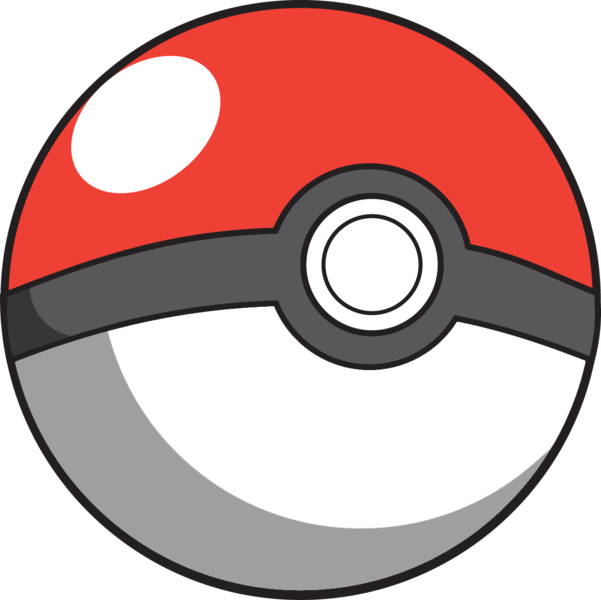
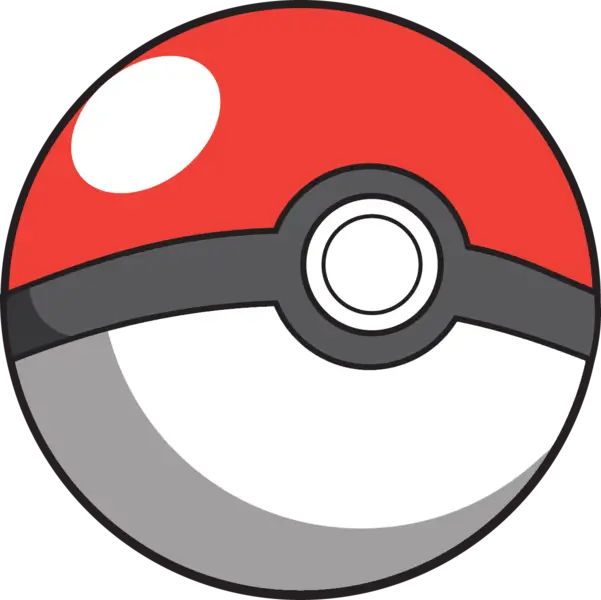
optimizing images

diff --git a/src/components/EmptyState/index.js b/src/components/EmptyState/index.js
@@ -1,5 +1,5 @@
 import { Empty } from 'antd';
-import emptyBall from 'statics/emptyball.png';
+import emptyBall from 'statics/emptyball.webp';
 import './EmptyState.css';
 
 const EmptyState = () => {
